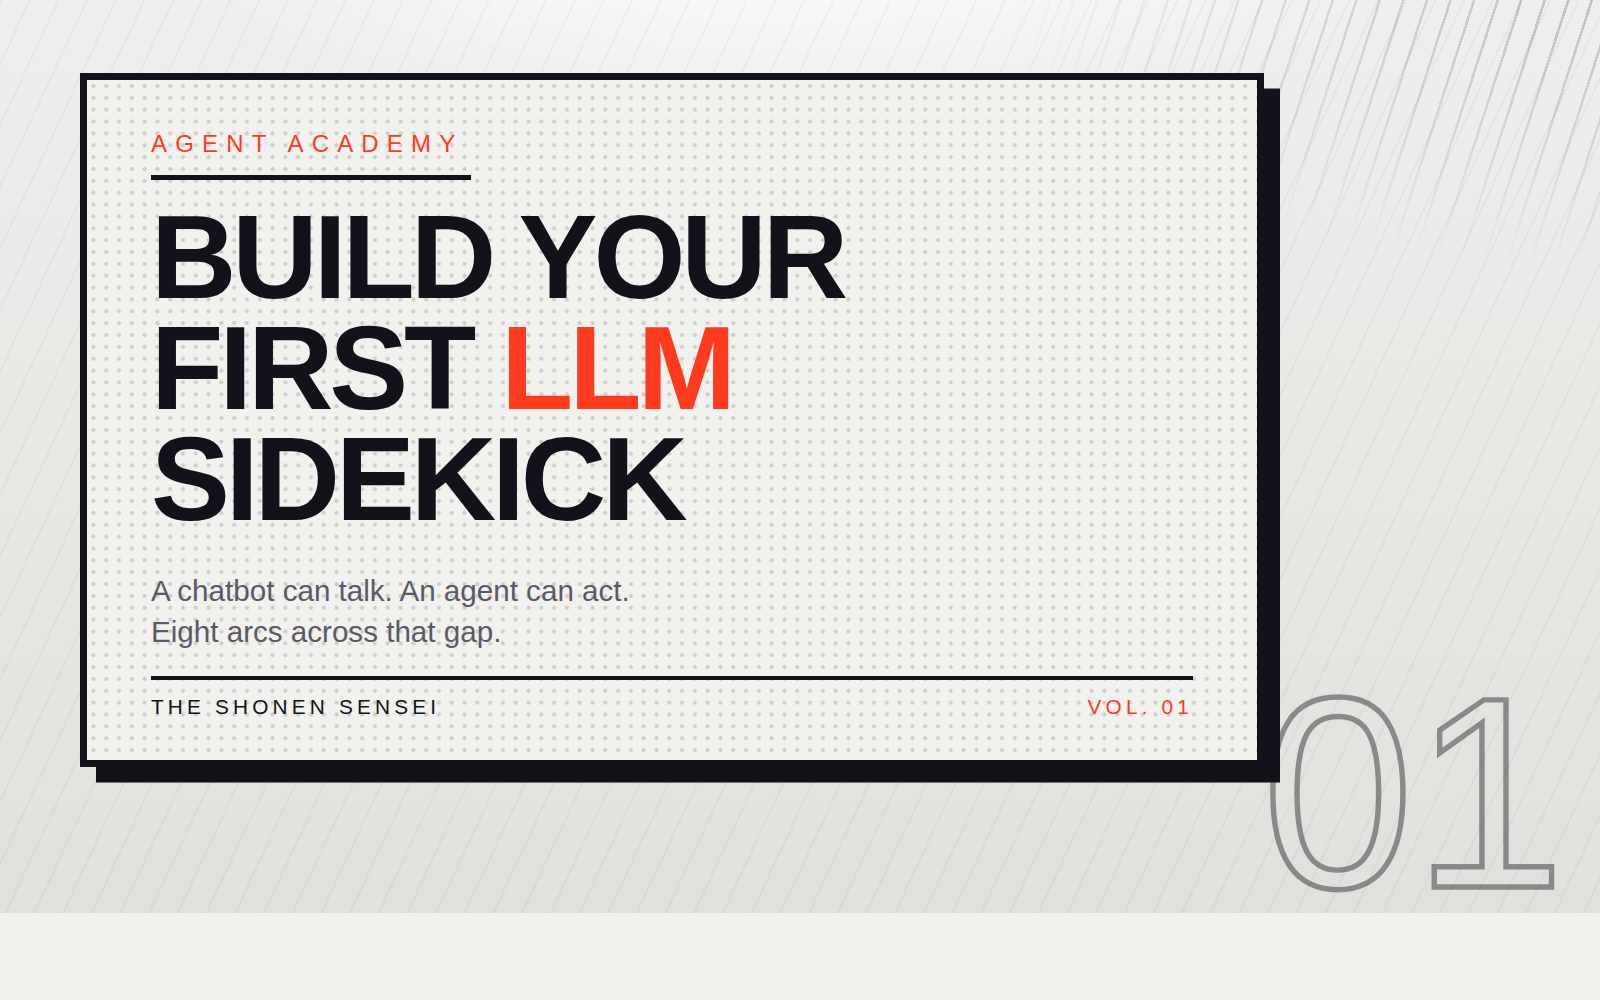
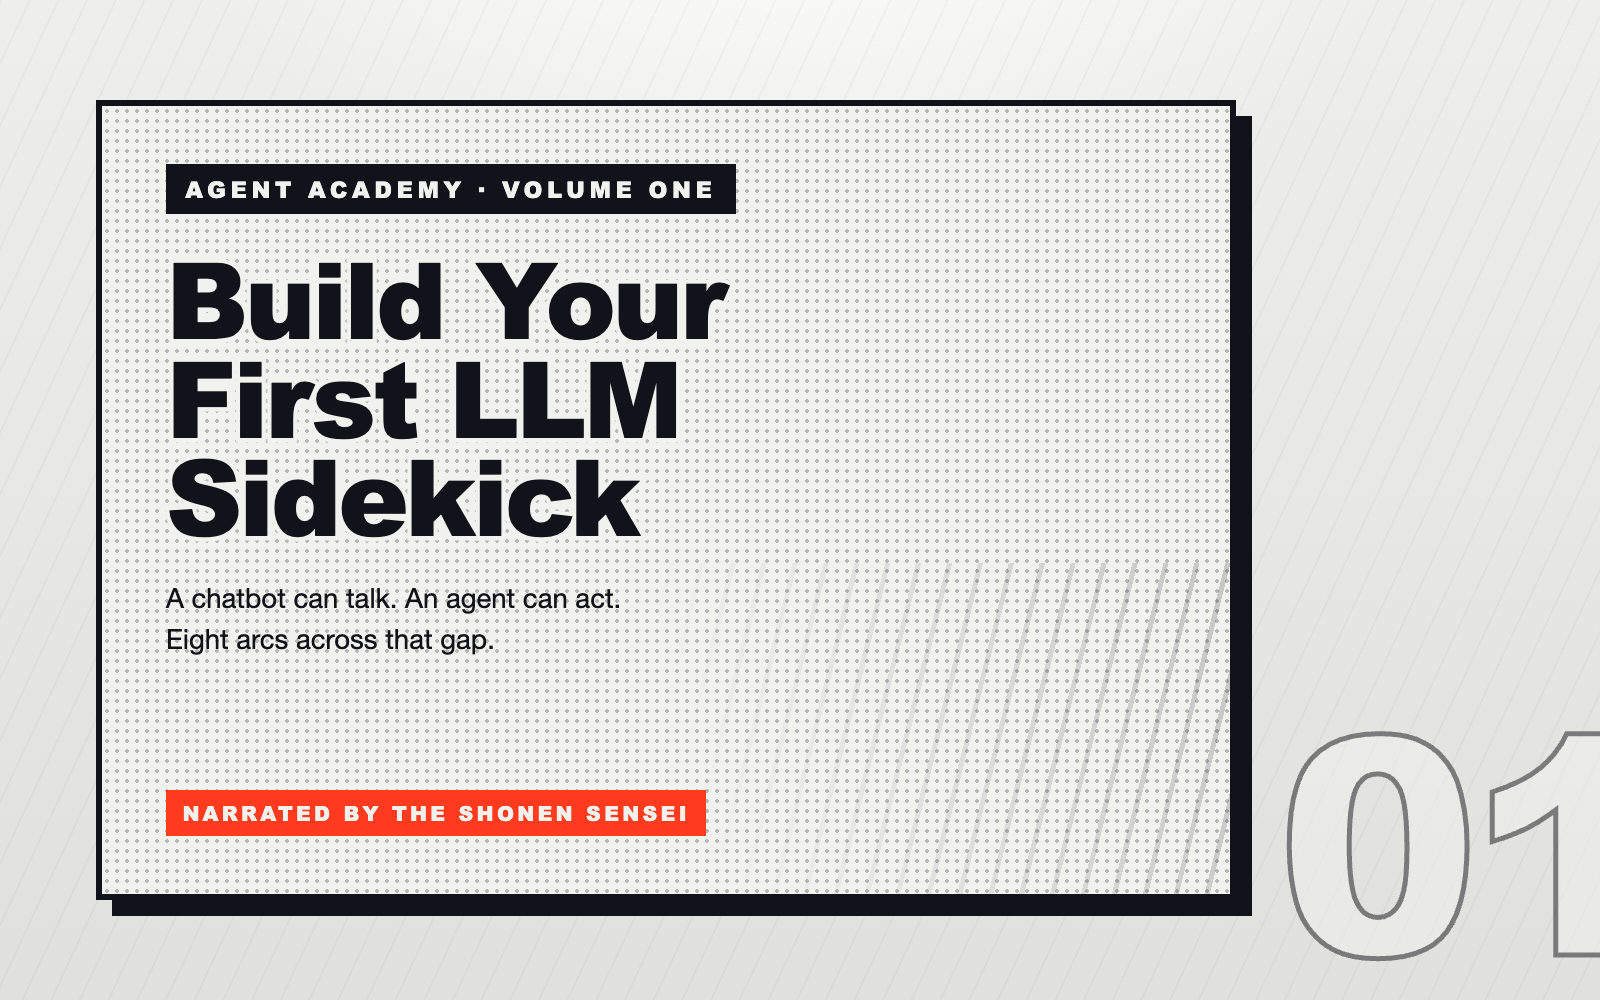
LLM agent book updated

Changed region(s): [[0.0312, 0.062, 1.0, 0.961], [0.8438, 0.0, 1.0, 0.124]]

diff --git a/books/agent-academy-build-your-first-llm-sidekick/assets/book.css b/books/agent-academy-build-your-first-llm-sidekick/assets/book.css
@@ -29,11 +29,13 @@
   /* diagram-kit expects an edge token */
   --edge:var(--rule);
 
-  /* Screentone ink, derived from --ink at the ~.18 the theme calls for.
-     The rgba line is the fallback for engines without color-mix; both are
-     declared here so no value is hardcoded further down the stylesheet. */
-  --tone:rgba(18,18,26,.18);
-  --tone:color-mix(in srgb, var(--ink) 18%, transparent);
+  /* Screentone ink, derived from --ink. The theme calls for .22–.3 on this
+     light ground — below ~.2 the dots vanish at reading distance and the
+     panel just reads as flat grey. The rgba line is the fallback for engines
+     without color-mix; both are declared here so no value is hardcoded
+     further down the stylesheet. */
+  --tone:rgba(18,18,26,.26);
+  --tone:color-mix(in srgb, var(--ink) 26%, transparent);
 }
 
 *{ box-sizing:border-box; }
@@ -136,7 +138,7 @@ a{ color:var(--accent); }
   font-size:9rem; line-height:.82;
   color:var(--bg);
   -webkit-text-stroke:3px var(--ink);
-  margin:0 0 -.4rem -.4rem;
+  margin:0 0 .1rem -.4rem;
 }
 .chapter-kicker{
   position:relative;
@@ -154,12 +156,12 @@ em,.key{
   -webkit-text-emphasis-position:over right;
           text-emphasis-position:over right;
 }
-/* The mark grows the line box, so any line carrying one needs slack or the
-   dots collide with the line above (or get clipped by a panel edge). */
-p.has-boten,
-p:has(em),
-p:has(.key),
-li:has(.key){ line-height:2.05; }
+/* The mark grows the line box. Special-casing only the paragraphs that carry
+   one made the page rhythm alternate — 1.62 for a plain paragraph, 2.05 for a
+   marked one, side by side in the same column. This book marks terms
+   mid-sentence throughout, so the leading is uniform instead: every prose
+   paragraph gets the slack, the dots always clear, and the column fills. */
+p,li{ line-height:1.95; }
 
 strong{ font-weight:800; }
 
@@ -180,6 +182,13 @@ table{
 .panel > :first-child{ margin-top:0; }
 .panel > :last-child{ margin-bottom:0; }
 
+/* Bōten sits ABOVE the line box, so a marked term on a panel's first line is
+   clipped by the panel's own top border. Give those panels head room. */
+.panel:has(> :first-child em),
+.panel:has(> :first-child .key),
+.aside:has(> p:first-of-type em),
+.aside:has(> p:first-of-type .key){ padding-top:1.75rem; }
+
 /* Screentone, never gradients. */
 .panel.tone,
 .aside{
@@ -198,13 +207,16 @@ table{
   padding:1.5rem 1rem .85rem;
   margin:2.5rem 0 1.3rem;
 }
+/* Inset placement: the label straddles the top border on a --bg knockout, so
+   it must NOT be rotated — a tilted label tips its corners out of the knockout
+   box and the border slices through the type. Rotation is for the fully-inside
+   placement only. Inset labels also need size, or they read as a legend. */
 .aside .sfx{
-  position:absolute; top:-.85rem; left:.8rem;
+  position:absolute; top:-1.05rem; left:.8rem;
   font-family:var(--font-display);
-  font-size:1.05rem; letter-spacing:.04em; text-transform:uppercase;
-  transform:rotate(-2deg);
+  font-size:1.35rem; line-height:1.35; letter-spacing:.03em; text-transform:uppercase;
   background:var(--bg);
-  padding:0 .4rem;
+  padding:0 .45rem;
   color:var(--accent);
   -webkit-text-stroke:2px var(--bg);
   paint-order:stroke fill;
@@ -257,29 +269,106 @@ li{ margin:0 0 .35rem; }
 
 /* ── Cover + contents ──────────────────────────────────────────────────── */
 
-.cover{ margin:0 0 1.4rem; }
-.cover h1{ font-size:2.6rem; }
-.cover .tagline{ color:var(--ink-soft); font-size:.95rem; margin-bottom:.8rem; }
+/* The cover is the loudest page in the book, not the quietest. The title is a
+   logo set over a screentone field with a speed-line burst raking across it;
+   the volume line is knocked out of a solid ink strip. */
+.cover{
+  position:relative;
+  margin:0 0 1.5rem;
+  padding:1.5rem 1.25rem 1.4rem;
+  border:3px solid var(--ink);
+  box-shadow:4px 4px 0 var(--ink);
+  overflow:hidden;
+}
+.cover::before{
+  content:"";
+  position:absolute; inset:0;
+  background-image:radial-gradient(var(--tone) 1px, transparent 1.2px);
+  background-size:6px 6px;
+  pointer-events:none;
+}
+.cover::after{
+  content:"";
+  position:absolute; right:-6%; bottom:-30%; width:70%; height:60%;
+  background-image:repeating-linear-gradient(104deg,
+      rgba(18,18,26,.20) 0 3px, transparent 3px 19px);
+  -webkit-mask-image:linear-gradient(255deg, rgba(0,0,0,.95), transparent 78%);
+          mask-image:linear-gradient(255deg, rgba(0,0,0,.95), transparent 78%);
+  pointer-events:none;
+}
+.cover > *{ position:relative; }
+
+/* Volume line: --bg text knocked out of a solid --ink strip, never grey caps. */
+.cover .chapter-kicker{
+  display:inline-block;
+  background:var(--ink);
+  color:var(--bg);
+  font-size:.78rem; letter-spacing:.15em;
+  padding:.34em .7em;
+  margin:0 0 .75rem;
+}
+/* Sized to the column, not the leaf: this is a two-column spread, so the logo
+   is the largest that still sets cleanly in half the viewport. */
+.cover h1{
+  font-size:clamp(2.2rem, 4.4vw, 3.9rem);
+  line-height:.94;
+  letter-spacing:-.025em;
+  margin:0;
+  -webkit-text-stroke:5px var(--bg);
+  paint-order:stroke fill;
+}
+.cover .tagline{
+  font-size:1.02rem;
+  color:var(--ink);
+  margin:.85rem 0 0;
+  max-width:34ch;
+}
 .cover .byline{
+  display:inline-block;
+  background:var(--accent);
+  color:var(--bg);
   font-family:var(--font-display);
-  font-size:.7rem; letter-spacing:.2em; text-transform:uppercase;
-  color:var(--accent);
+  font-size:.74rem; letter-spacing:.13em; text-transform:uppercase;
+  padding:.3em .6em;
+  margin:1rem 0 0;
 }
 
 .toc-block{ break-inside:avoid; }
+
+/* The contents heading carries the same weight as the rows beneath it. */
+h2[data-anchor="toc-heading"]{
+  font-size:1.9rem;
+  text-transform:uppercase;
+  letter-spacing:.02em;
+  margin:0 0 .4rem;
+  padding-bottom:.3rem;
+}
+
+/* Contents: numbered panel rows, never a bulleted list. The list itself is
+   allowed to break across the column boundary — each row stays whole — so a
+   long contents flows onto the facing leaf instead of being crushed to fit
+   one column and leaving the facing leaf empty. */
 .toc{ list-style:none; padding:0; margin:0; counter-reset:toc; }
-.toc li{ margin:0 0 .5rem; display:flex; gap:.7rem; align-items:baseline; }
+.toc li{
+  display:flex; align-items:center; gap:1rem;
+  margin:0;
+  padding:.5rem 0;
+  border-bottom:3px solid var(--ink);
+  break-inside:avoid;
+}
 .toc li::before{
   counter-increment:toc;
   content:counter(toc,decimal-leading-zero);
-  font-family:var(--font-mono);
-  font-size:.76rem;
-  color:var(--accent);
-  min-width:1.7em;
+  flex:0 0 2.8rem;
+  font-family:var(--font-display);
+  font-size:2.5rem; line-height:1;
+  letter-spacing:-.04em;
+  color:var(--bg);
+  -webkit-text-stroke:2px var(--ink);
 }
-.toc a{ color:var(--ink); text-decoration:none; border-bottom:1px solid var(--rule); }
-.toc a:hover{ color:var(--accent); border-bottom-color:var(--accent); }
-.toc a.bb-read::after{ content:" ✓"; color:var(--ink-soft); font-size:.8em; }
+.toc a{ color:var(--ink); text-decoration:none; font-size:1.14rem; font-weight:700; }
+.toc a:hover{ color:var(--accent); }
+.toc a.bb-read::after{ content:" ✓"; color:var(--ink-soft); font-size:.72em; font-weight:400; }
 
 /* Reading progress — annotation, never interface. Never the accent. */
 .book-resume{
@@ -364,7 +453,9 @@ svg.diagram{ width:100%; height:auto; display:block; }
   .book-nav{ position:static; }
   body{ font-size:16px; }
   .chapter-num{ font-size:5.5rem; }
-  .cover h1{ font-size:2rem; }
+  .cover h1{ font-size:2.15rem; -webkit-text-stroke-width:3px; }
+  .toc li::before{ font-size:2rem; flex-basis:2.3rem; }
+  .toc a{ font-size:1.05rem; }
   h1{ font-size:1.7rem; }
 }
 

diff --git a/books/agent-academy-build-your-first-llm-sidekick/index.html b/books/agent-academy-build-your-first-llm-sidekick/index.html
@@ -29,7 +29,7 @@
 
     <section class="cover toc-block">
       <p class="chapter-kicker" data-anchor="cover-kicker">Agent Academy · Volume One</p>
-      <h1 data-anchor="cover-title">Build Your First<br>LLM Sidekick</h1>
+      <h1 data-anchor="cover-title">Build Your<br>First LLM<br>Sidekick</h1>
       <p class="tagline" data-anchor="cover-tagline">A chatbot can talk. An agent can act. Eight arcs from that gap
         to a sidekick that reads a repository, writes release notes, and knows when to stop.</p>
       <p class="byline" data-anchor="cover-byline">Narrated by The Shonen Sensei</p>
@@ -43,7 +43,7 @@
         this book is sourced, and every code sample runs.</p>
     </div>
 
-    <section class="toc-block">
+    <section>
       <h2 data-anchor="toc-heading">Contents</h2>
       <ol class="toc" data-anchor="toc-list">
         <li><a href="concepts/01-the-call-to-adventure.html">The Call to Adventure</a></li>
